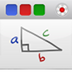
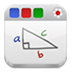
add usa today search

diff --git a/public/usatoday.js b/public/usatoday.js
@@ -1,0 +1,68 @@
+(function() {
+  var url = location.href;
+  var args = (url.split(/\?/)[1] || "").split(/\&/);
+  var params = {}
+  for(var idx in args) {
+    var arg = args[idx].split(/\=/);
+    var key = arg[0];
+    var value = arg[1];
+    if(key && value) {
+      params[key] = decodeURIComponent(value);
+    }
+  }
+  if(params['selection_directive'] != "embed_content" || !params['launch_presentation_return_url']) {
+    alert("This page is normally used an an example of embedding content, but you've referenced it some other way. As such, it's not going to be very useful to you. Sorry.");
+    callbackUrl = null;
+  } else if(!params['launch_presentation_return_url'].match(/\?/)) {
+    params['launch_presentation_return_url'] = params['launch_presentation_return_url'] + "?";
+  }
+  var returnUrl = params['launch_presentation_return_url'];
+
+  var $results = $("#results");
+  var $message = $("#message");
+  var $result = $("#result").detach().removeAttr('id');
+  $result.click(function() {
+    var videoUrl = $(this).attr('rel');
+    if(returnUrl) {
+      var entry = $(this).data('entry');
+      location.href = returnUrl + "&embed_type=link&url=" + encodeURIComponent(entry.link) + "&text=" + encodeURIComponent(entry.title);
+    } else {
+      alert('click');
+    }
+  });
+  $("#search").submit(function(event) {
+    event.preventDefault();
+    event.stopPropagation();
+    $results.empty().hide();
+    $message.show().text("Loading...");
+    var query = encodeURIComponent($("#query").val());
+    var url = "http://api.usatoday.com/open/articles?search=" + query + "&count=15&encoding=json&api_key=6zb4ck73bzbqtczgcq7tsjaf";
+    $.ajax({
+      url: url,
+      success: function(data) {
+        console.log(data);
+        if(!data.stories || data.stories.length == 0) {
+          $results.empty().hide();
+          $message.show().text("No Results Found");
+          return;
+        }
+        for(var idx = 0; idx < data.stories.length && data.stories[idx]; idx++) {
+          var entry = data.stories[idx];
+          var $entry = $result.clone(true);
+          var date = entry.pubDate.split(/\s/)
+          $entry.data('entry', entry);
+          $entry.find(".title").text(entry.title);
+          $entry.find(".description").text(entry.description);
+          $entry.find(".date").text(date.slice(0, 4).join(" "));
+          $entry.attr('rel', entry.link);
+          $results.append($entry.show());
+        }
+        $results.show();
+        $message.hide();
+      },
+      dataType: 'jsonp',
+      jsonp: 'jsoncallbackmethod',
+      jsonpCallback: 'usatodayresults'
+    });
+  });
+})();

diff --git a/public/usatoday.html b/public/usatoday.html
@@ -1,0 +1,80 @@
+<html>
+<head>
+<style>
+body {
+  font-family: Arial;
+}
+h1 {
+  margin-bottom: 5px;
+  margin-top: 5px;
+}
+#results {
+  width: 720px;
+}
+#results .result {
+  float: left;
+  width: 230px;
+  padding: 5px;
+}
+#results .result:hover {
+  background: #ccc;
+  cursor: pointer;
+  -moz-border-radius: 5px;
+  -webkit-border-radius: 5px;
+  border-radius: 5px;
+}
+#results .result:hover .title {
+  border-bottom-color: #888;
+}
+#results .result .title {
+  height: 32px;
+  border-bottom: 1px solid #ccc;
+  font-size: 13px;
+  font-weight: bold;
+  padding-left: 5px;
+  overflow: hidden;
+  color: #000;
+}
+#results .result .date {
+  font-size: 11px;
+  padding-left: 5px;
+  color: #888;
+  white-space: nowrap;
+  overflow: hidden;
+}
+#results .result .description {
+  height: 74px;
+  font-size: 12px;
+  padding-left: 15px;
+  overflow: auto;
+  color: #444;
+}
+#message {
+  font-weight: bold;
+  margin: 10px;
+}
+</style>
+</head>
+<body>
+<img src="/tools/usa_today.png" style="width: 70px; vertical-align: middle; float: left; padding-right: 5px;"/>
+<h1>
+Search USA Today Articles:
+</h1>
+
+<form id="search">
+<input type="text" id="query"/>
+<button type="submit">Search</button>
+</form>
+
+<div id="message"></div>
+
+<div id="results"></div>
+<div id="result" style="display: none;" class="result" title="Click to embed">
+  <div class="title"></div>
+  <div class="date"></div>
+  <div class="description"></div>
+</div>
+<script src="https://ajax.googleapis.com/ajax/libs/jquery/1.7.1/jquery.min.js"></script>
+<script src="usatoday.js"></script>
+</body>
+</html>

diff --git a/public/tools.js b/public/tools.js
@@ -25,21 +25,28 @@
       logo_url: "/tools/khan.png",
       description: "Online video lessons for math, science, etc.",
       markets: "",
-      launch_url: "https://lti-examples.heroku.com/khan.html"
+      launch_url: "/khan.html"
+    },
+    {
+      name: "USA Today",
+      logo_url: "/tools/usa_today.png",
+      description: "Search articles on USA Today",
+      markets: "",
+      launch_url: "/usatoday.html"
     },
     {
       name: "Graph Builder",
       logo_url: "/tools/graph_tk.png",
       description: "Build and embed rich interactive graphs into course content",
       markets: "",
-      launch_url: "https://lti-examples.heroku.com/graph.html"
+      launch_url: "/graph.html"
     },
     {
       name: "Quizlet Flash Cards",
       logo_url: "/tools/quizlet.png",
       description: "Search Quizlet for flash card and study tools",
       markets: "",
-      launch_url: "https://lti-examples.heroku.com/quizlet.html"
+      launch_url: "/quizlet.html"
     },
     {
       name: "Codecademy",
